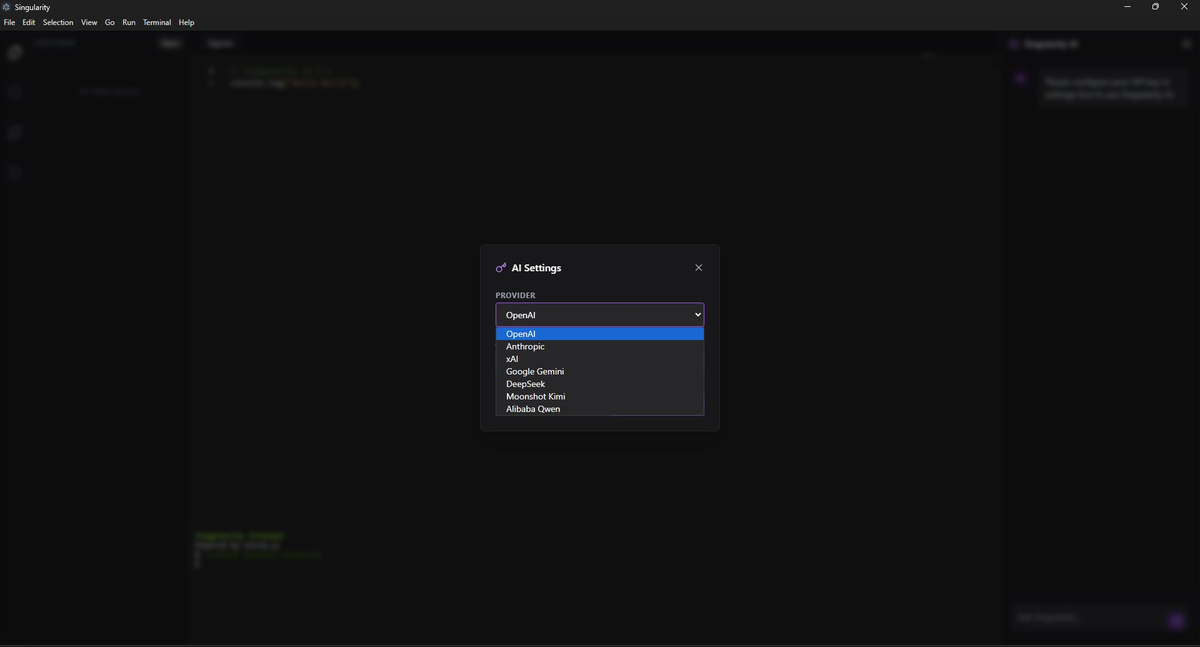
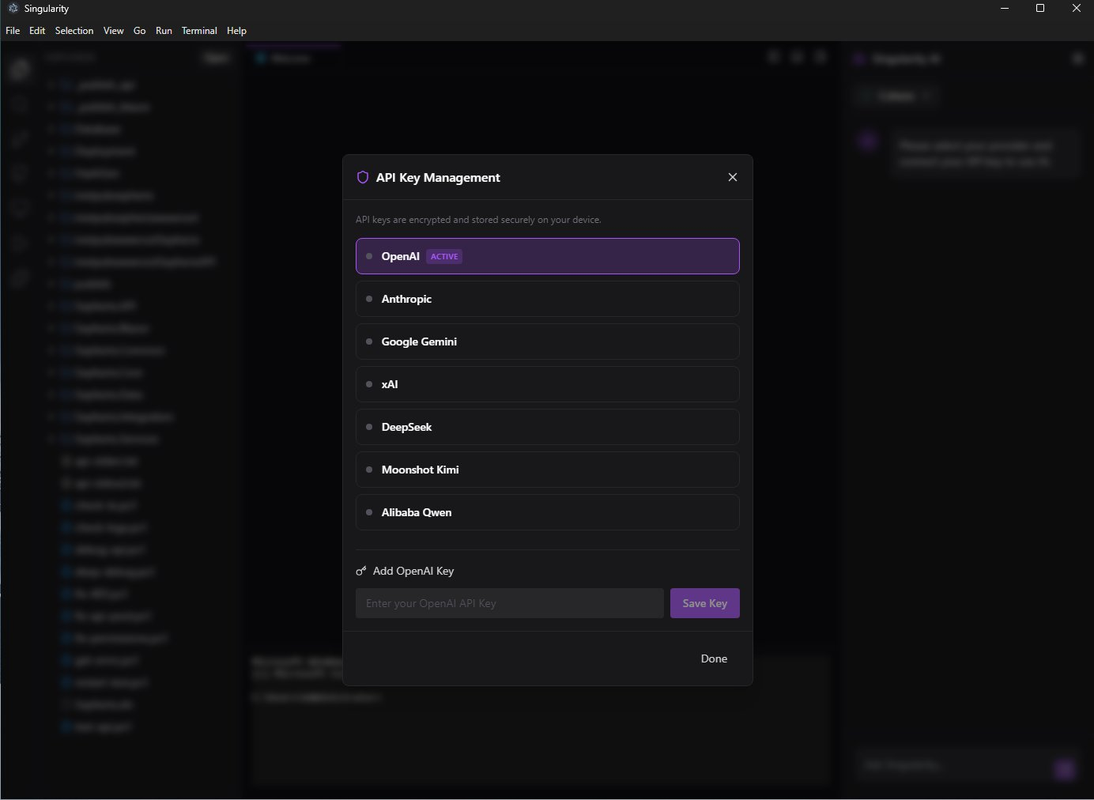
Add files via upload

diff --git a/software.html b/software.html
@@ -531,17 +531,27 @@
     <div class="product-hero-text">
       <span class="product-type purple">Integrated Development Environment</span>
       <h2>Singularity</h2>
-      <p class="product-desc">A next-generation code editor and development environment with deeply integrated AI assistance. Singularity brings together a powerful editor, built-in terminal, extension marketplace, and multi-provider AI — all in a single, streamlined desktop application.</p>
+      <p class="product-desc">A next-generation code editor and development environment with deeply integrated AI assistance. Singularity brings together a powerful editor, built-in terminal, extension marketplace, customizable themes, MCP server support, and multi-provider AI — all in a single, streamlined desktop application.</p>
       <p class="product-tagline">Your code editor should be as smart as you are. Singularity makes it smarter.</p>
       <div class="feature-pills">
         <span class="pill">Multi-Provider AI</span>
         <span class="pill">Extension Marketplace</span>
+        <span class="pill">MCP Server Support</span>
+        <span class="pill">10+ Themes</span>
         <span class="pill">Integrated Terminal</span>
-        <span class="pill">Syntax Highlighting</span>
+        <span class="pill">API Key Management</span>
         <span class="pill">Git Integration</span>
-        <span class="pill">Multi-Language Support</span>
-        <span class="pill">Dark Theme</span>
         <span class="pill">Desktop Native</span>
+      </div>
+      <div style="margin-top: 2rem; display: flex; gap: 0.75rem; flex-wrap: wrap;">
+        <a href="#" class="btn-primary" style="background: var(--purple); color: #fff;" onclick="alert('Download link coming soon — check back shortly!'); return false;">
+          <svg width="16" height="16" viewBox="0 0 24 24" fill="none" stroke="currentColor" stroke-width="2" stroke-linecap="round" stroke-linejoin="round"><path d="M21 15v4a2 2 0 01-2 2H5a2 2 0 01-2-2v-4"/><polyline points="7 10 12 15 17 10"/><line x1="12" y1="15" x2="12" y2="3"/></svg>
+          Windows
+        </a>
+        <a href="#" class="btn-primary" style="background: var(--purple); color: #fff;" onclick="alert('Download link coming soon — check back shortly!'); return false;">
+          <svg width="16" height="16" viewBox="0 0 24 24" fill="none" stroke="currentColor" stroke-width="2" stroke-linecap="round" stroke-linejoin="round"><path d="M21 15v4a2 2 0 01-2 2H5a2 2 0 01-2-2v-4"/><polyline points="7 10 12 15 17 10"/><line x1="12" y1="15" x2="12" y2="3"/></svg>
+          Linux (Ubuntu)
+        </a>
       </div>
     </div>
     <div class="product-hero-visual">
@@ -551,14 +561,18 @@
 
   <div class="screenshot-gallery">
     <h3>📸 In Action</h3>
-    <div class="gallery-row">
+    <div class="gallery-row" style="grid-template-columns: 1fr 1fr;">
       <div class="gallery-item" onclick="openLightbox(this.querySelector('img'))">
         <img src="software/singularity-extensions.png" alt="Extension Marketplace">
         <div class="gallery-label">Extension Marketplace — Install & Manage Plugins</div>
       </div>
       <div class="gallery-item" onclick="openLightbox(this.querySelector('img'))">
         <img src="software/singularity-ai.png" alt="AI Provider Settings">
-        <div class="gallery-label">AI Settings — Multi-Provider Configuration</div>
+        <div class="gallery-label">API Key Management — Multi-Provider Configuration</div>
+      </div>
+      <div class="gallery-item" onclick="openLightbox(this.querySelector('img'))">
+        <img src="software/singularity-settings.png" alt="Theme Settings">
+        <div class="gallery-label">Appearance — 10+ Built-In Themes</div>
       </div>
     </div>
   </div>
@@ -569,40 +583,49 @@
       <div class="cap-card">
         <div class="cap-icon purple">🤖</div>
         <h4>Multi-Provider AI Assistant</h4>
-        <p>Choose your AI provider — OpenAI, Anthropic, Google Gemini, xAI, DeepSeek, Moonshot Kimi, or Alibaba Qwen. Bring your own API key and get intelligent code assistance right in the editor.</p>
+        <p>Choose your AI provider — OpenAI, Anthropic, Google Gemini, xAI, DeepSeek, Moonshot Kimi, Alibaba Qwen, or Cohere. Bring your own API key with encrypted local storage and get intelligent code assistance right in the editor.</p>
       </div>
       <div class="cap-card">
         <div class="cap-icon purple">🧩</div>
         <h4>Extension Marketplace</h4>
-        <p>A rich ecosystem of extensions for language support, linting, formatting, profiling, and Git tooling. Install what you need with one click — from Rust Analyzer to Prettier.</p>
-      </div>
-      <div class="cap-card">
-        <div class="cap-icon purple">💻</div>
-        <h4>Integrated Terminal</h4>
-        <p>A full-featured terminal built directly into the editor. Run builds, execute scripts, manage version control — without ever leaving your workspace.</p>
+        <p>A rich ecosystem of extensions for language support, linting, formatting, profiling, and Git tooling. Install what you need with one click — from Rust Analyzer to Prettier — complete with download counts and verified publishers.</p>
       </div>
       <div class="cap-card">
         <div class="cap-icon purple">🎨</div>
-        <h4>Modern Editor Experience</h4>
-        <p>Syntax highlighting, IntelliSense-style completions, file explorer, search, and multi-tab editing. Everything you expect from a professional editor, purpose-built from scratch.</p>
+        <h4>10+ Built-In Themes</h4>
+        <p>Choose from Dark, Light, Midnight, Nord, Solarized, Monokai, Dracula, Catppuccin, High Contrast, and more. Full appearance customization with editor settings for font, tab size, and formatting preferences.</p>
+      </div>
+      <div class="cap-card">
+        <div class="cap-icon purple">🔌</div>
+        <h4>MCP Server Support</h4>
+        <p>Connect to Model Context Protocol servers directly from settings. Extend your AI assistant's capabilities with external tools, data sources, and custom integrations.</p>
       </div>
       <div class="cap-card">
         <div class="cap-icon purple">🔒</div>
         <h4>Privacy-First Design</h4>
-        <p>Your code stays on your machine. AI interactions use your own API keys with direct provider connections — no middleman, no data collection, no telemetry.</p>
+        <p>Your code stays on your machine. API keys are encrypted and stored locally. Direct provider connections — no middleman, no data collection, no telemetry.</p>
       </div>
       <div class="cap-card">
-        <div class="cap-icon purple">🖥</div>
-        <h4>Native Desktop Application</h4>
-        <p>Built as a desktop-native application for speed and reliability. No browser overhead, no cloud dependency — a tool that works where and when you need it.</p>
+        <div class="cap-icon purple">💻</div>
+        <h4>Full Development Environment</h4>
+        <p>File explorer, integrated terminal, search, multi-tab editing, syntax highlighting, and a welcome screen to get you started. Everything you need in a native desktop application — no browser overhead.</p>
       </div>
     </div>
   </div>
 
   <div class="product-cta">
-    <h3>Interested in Singularity?</h3>
-    <p>Reach out to learn more about licensing and early access.</p>
-    <a href="contact.html" class="btn-primary">Get in Touch</a>
+    <h3>Ready to try Singularity?</h3>
+    <p>Download the latest release and start coding with AI assistance built right in.</p>
+    <div style="display: flex; gap: 0.75rem; justify-content: center; flex-wrap: wrap;">
+      <a href="#" class="btn-primary" style="background: var(--purple); color: #fff;" onclick="alert('Download link coming soon — check back shortly!'); return false;">
+        <svg width="16" height="16" viewBox="0 0 24 24" fill="none" stroke="currentColor" stroke-width="2" stroke-linecap="round" stroke-linejoin="round"><path d="M21 15v4a2 2 0 01-2 2H5a2 2 0 01-2-2v-4"/><polyline points="7 10 12 15 17 10"/><line x1="12" y1="15" x2="12" y2="3"/></svg>
+        Windows
+      </a>
+      <a href="#" class="btn-primary" style="background: var(--purple); color: #fff;" onclick="alert('Download link coming soon — check back shortly!'); return false;">
+        <svg width="16" height="16" viewBox="0 0 24 24" fill="none" stroke="currentColor" stroke-width="2" stroke-linecap="round" stroke-linejoin="round"><path d="M21 15v4a2 2 0 01-2 2H5a2 2 0 01-2-2v-4"/><polyline points="7 10 12 15 17 10"/><line x1="12" y1="15" x2="12" y2="3"/></svg>
+        Linux (Ubuntu)
+      </a>
+    </div>
   </div>
 </div>
 
